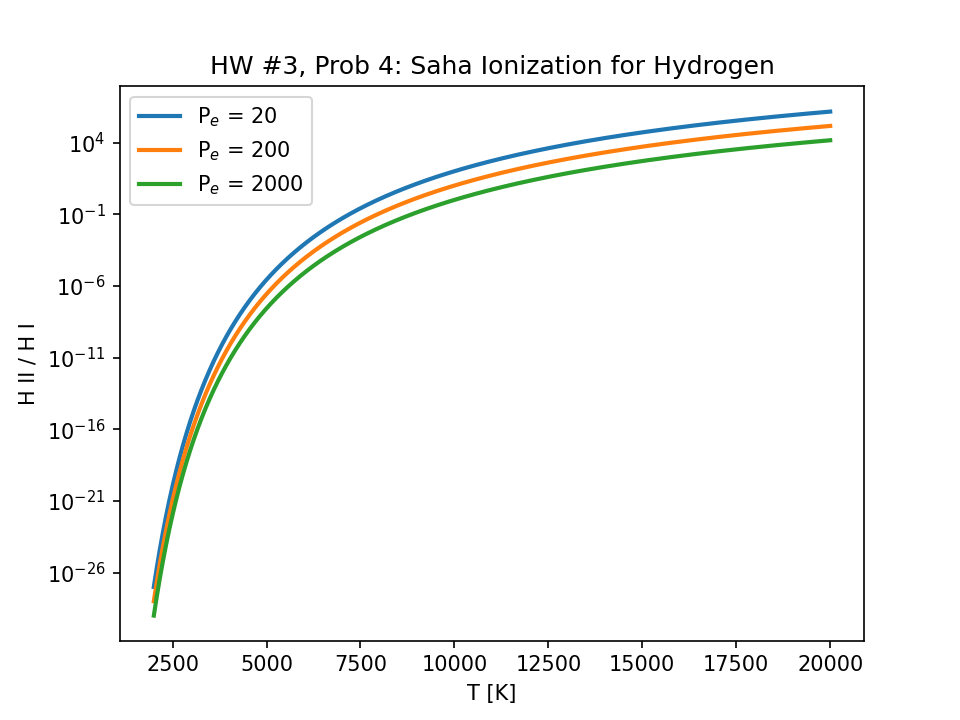
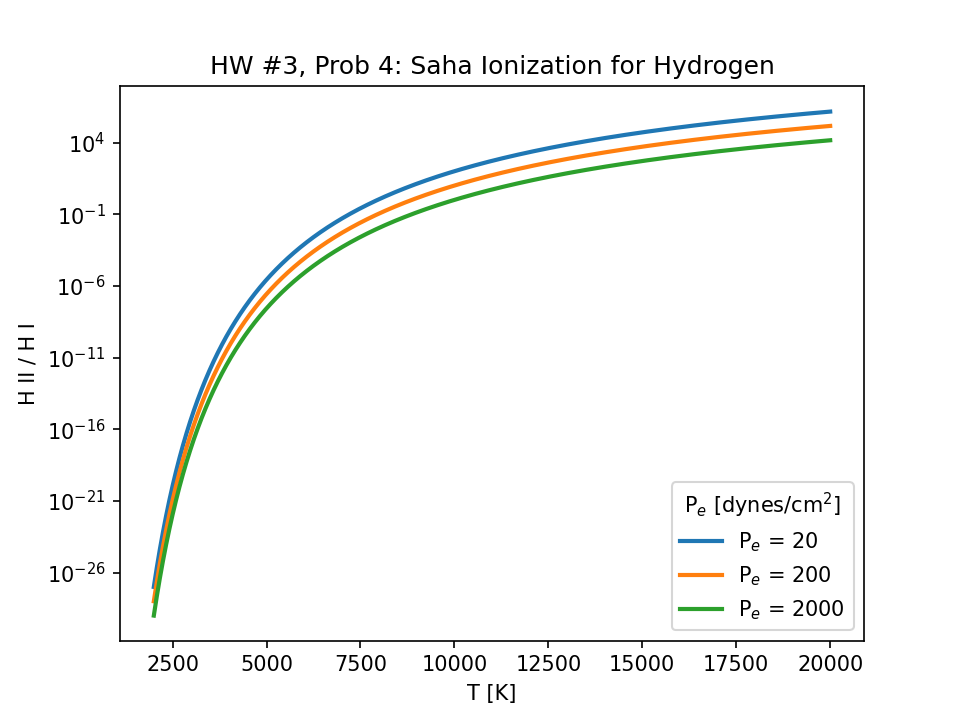
q6 started

diff --git a/HW3/saha.py b/HW3/saha.py
@@ -39,29 +39,32 @@ def saha(T, P_e, g_r, g_r1, Xi=Xi, m_r=m_e, k=k, h=h):
     
     return first_term * second_term * third_term
 
+def Ntotal_ratio(r):
+    """
+    Calculate the ratio of the total number of atoms to the number of ionized and neutral atoms
+    r = N_ionized / N_neutral
+    """
+    return r / (1+r)
 
-def plot_saha(fig_num, P_e_arr, T, g_r, g_r1, Xi=Xi, m_r=m_e, k=k, h=h):
+def plot_saha(fig_num, P_e_arr, T, ratio_arr, q_num=4):
     """
     Plot the Saha ratio for a range of temperatures T
     """
-    # Calculate the Saha ratios for each input P_e
-    saha_ratios = np.array([saha(T, P_e, g_r, g_r1, Xi=Xi, m_r=m_r, k=k, h=h) for P_e in P_e_arr])
-    
     plt.figure(dpi=150)
     # Data
-    for ratio, P_e in zip(saha_ratios,P_e_arr):
+    for ratio, P_e in zip(ratio_arr,P_e_arr):
         plt.plot(T, ratio, linewidth=2, label=rf'P$_e$ = {P_e}')
     # Labels & other
     plt.xlabel('T [K]')
-    plt.ylabel('H II / H I')
-    plt.yscale('log')
-    plt.legend()
-    plt.title('HW #3, Prob 4: Saha Ionization for Hydrogen')
+    ylabel = r'H II / H$_{total}$' if fig_num==3 else 'H II / H I'
+    plt.ylabel(ylabel)
+    yscale = 'linear' if fig_num==3 else 'log'
+    plt.yscale(yscale)
+    plt.legend(title=r'P$_e$ [dynes/cm$^2$]')
+    plt.title(f'HW #3, Prob {q_num}: Saha Ionization for Hydrogen')
     # Save
-    plt.savefig(dir_path+f'/figures/q4_fig{fig_num}.png')
+    plt.savefig(dir_path+f'/figures/q{q_num}_fig{fig_num}.png')
     plt.show()
-
-    return saha_ratios
 
 
 def get_ratio(T, T_arr, ratio_arr):
@@ -71,7 +74,6 @@ def get_ratio(T, T_arr, ratio_arr):
     index = np.argmin(np.abs(T_arr - T))
     return ratio_arr[index]
 
-
 def get_temp(ratio, T_arr, ratio_arr):
     """
     Find the temperature at which the ratio of H II / H I is equal to a given ratio
@@ -80,24 +82,38 @@ def get_temp(ratio, T_arr, ratio_arr):
     return T_arr[index]
 
 
+# Question 4
 # a)
 print(f'Ionization energy of hydrogen: {-E_1} eV, {Xi:.3e} erg')
 
 # b)
 T = np.linspace(2000, 20000, 100000)
 P_e = [200] # electron pressure in dynes/cm2 for MS star, n_e = P_e ./ (k .* T)
-saha_ratios_1 = plot_saha(fig_num=1, P_e_arr=P_e, T=T, g_r=g_i, g_r1=g_ii)[0]
+# Calculate the Saha ratio
+saha_ratio_1 = saha(T, P_e, g_i, g_ii)
+plot_saha(fig_num=1, P_e_arr=P_e, T=T, ratio_arr=[saha_ratio_1])
 # Finding ratios at different temperatures
-ratio_T2000 = get_ratio(2000, T, saha_ratios_1)
+ratio_T2000 = get_ratio(2000, T, saha_ratio_1)
 print(f'Ratio 2000K: {ratio_T2000}')
-ratio_T6000 = get_ratio(6000, T, saha_ratios_1)
+ratio_T6000 = get_ratio(6000, T, saha_ratio_1)
 print(f'Ratio 6000K: {ratio_T6000}')
-ratio_T10000 = get_ratio(10000, T, saha_ratios_1)
+ratio_T10000 = get_ratio(10000, T, saha_ratio_1)
 print(f'Ratio 10000K: {ratio_T10000}')
 # Find the temperature at which the ratio is 10
-T_ratio10 = get_temp(10, T, saha_ratios_1)
+T_ratio10 = get_temp(10, T, saha_ratio_1)
 print(f'Temperature at which the ratio is 10: {T_ratio10} K')
 
 # c)
 P_e_arr = [20,200,2000]  # in dynes/cm2
-saha_ratios_2 = plot_saha(fig_num=2, P_e_arr=P_e_arr, T=T, g_r=g_i, g_r1=g_ii)
+# Calculate the Saha ratios for each input P_e
+saha_ratio_2 = np.array([saha(T, P_e, g_i, g_ii) for P_e in P_e_arr])
+# Plot
+plot_saha(fig_num=2, P_e_arr=P_e_arr, T=T, ratio_arr=saha_ratio_2)
+
+
+# Question 6
+# Calculate ratio for p_E = 200
+ratio_total = Ntotal_ratio(saha_ratio_1)
+# Plot
+plot_saha(fig_num=3, P_e_arr=P_e, T=T, ratio_arr=[ratio_total], q_num=6)
+# Get ratio at T=8000 K

diff --git a/HW3/pickles.py b/HW3/pickles.py
@@ -5,7 +5,6 @@ import pylab
 import numpy as np
 import scipy.constants as const
 
-
 # Read in Pickles Spectra into arrays
 lambda_dict = {}
 flux_dict = {}
@@ -21,7 +20,6 @@ for file in os.scandir(dir_path+'Pickles'):
         l,f = np.genfromtxt(file, delimiter=' ', unpack=True)
         lambda_dict[name] = l
         flux_dict[name] = f
-
 
 # Plots
 spectral_types = ['O5V', 'B3V', 'A0', 'F0', 'G0', 'K0', 'M0']
@@ -55,7 +53,6 @@ def plot_lambda_flux(fig_num, spectral_types=spectral_types, lambda_dict=lambda_
     # Save
     plt.savefig(dir_path+f'figures/q1_fig{fig_num}.png')
     plt.show()
-
 
 
 # Figure 1
